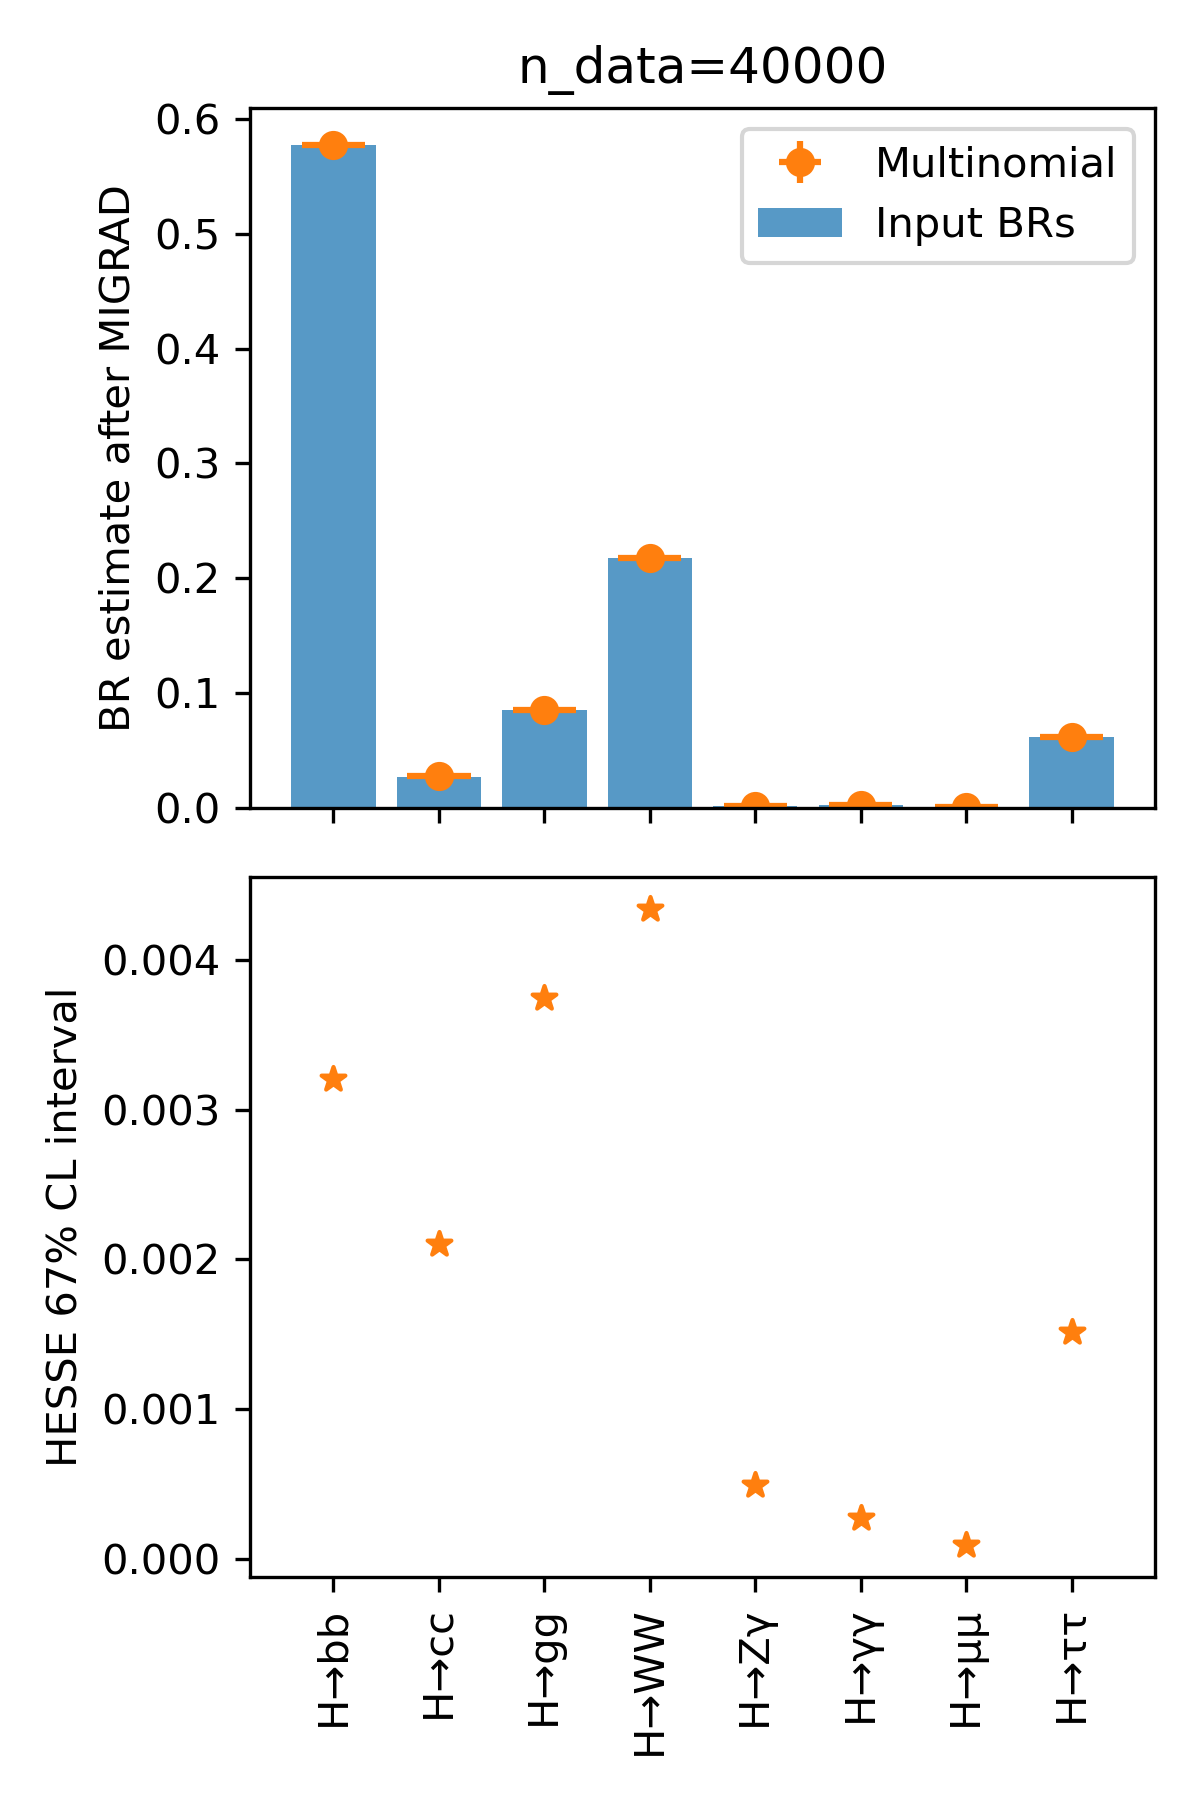
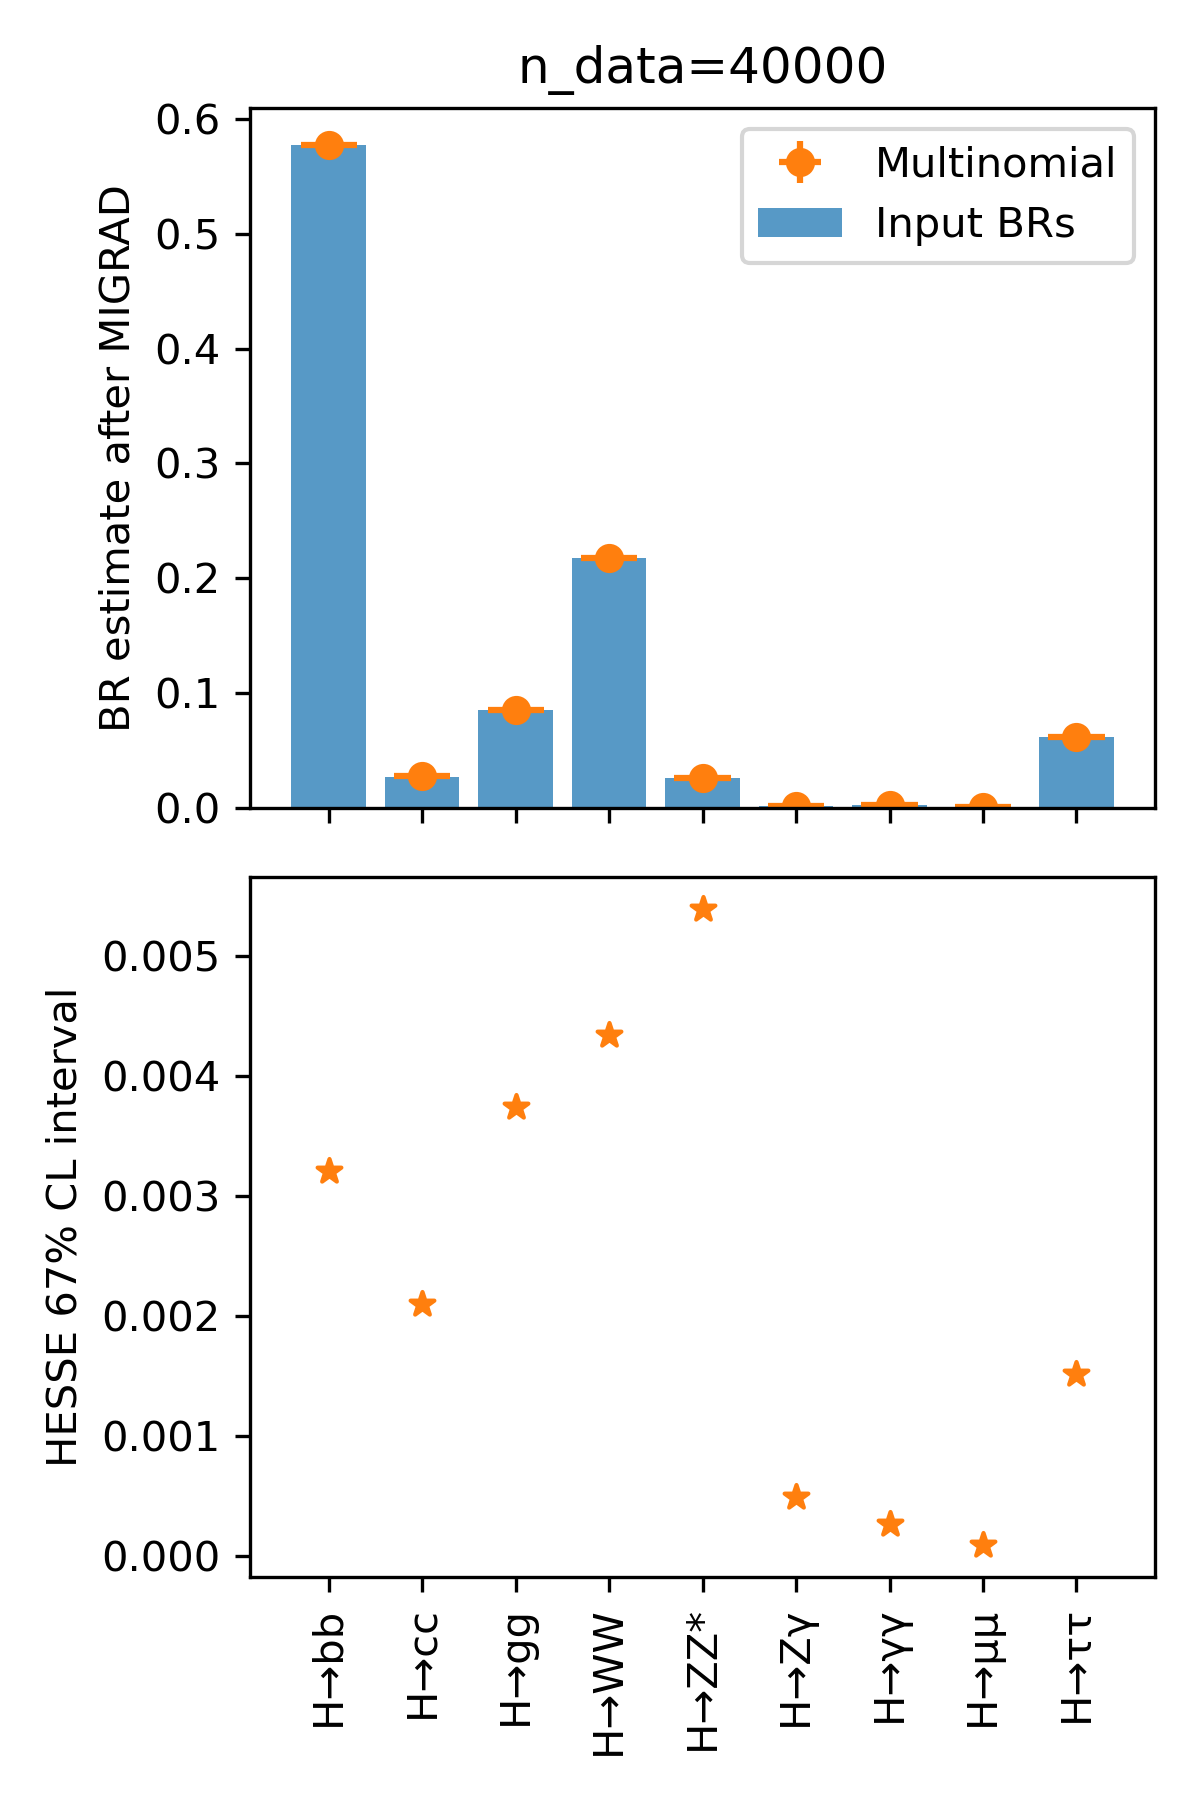
ZZ* (dependent param) now shown with the fit params.
While this is not the obvious way
to present it from the standpoint of the fit,
it is the natural viewpoint from outsides.

diff --git a/plot_factory/toys.py b/plot_factory/toys.py
@@ -54,7 +54,7 @@ def uncertainty_toy_study(data, minimization_procedure, toy_dir,
     #     br_err = br_err / br.sum()
     #     toy_minima = (toy_minima.T / toy_minima.sum(axis=1)).T
 
-    for i, br_name in enumerate(param_names):
+    def toy_hist(br_name, toy_min_i, br_i, br_err_i):
         fig, ax = plt.subplots(figsize=(4, 4))
         ax.set_title(br_name)
         # ax.axvline(data.X0[data.x_names.index(br_name)], color="grey",
@@ -62,20 +62,35 @@ def uncertainty_toy_study(data, minimization_procedure, toy_dir,
             linestyle=":", linewidth=2, zorder=3,
             label=f"{fit_starting_values[br_name]:0.5f} SM BR")
         bins = 20
-        _, edges, _ = ax.hist(toy_minima[:,i], bins,
+        _, edges, _ = ax.hist(toy_min_i, bins,
             label="\n".join([f"Minima from {n_toys} fits",
                               "on toy counts",
                               "(MC2, Multinomial draws)",]),
             alpha=.8, color="C1", density=True)
-        ax.axvline(br[i], color="black",
-            label=f"{br[i]:0.5f} EECF Minimum")
+        ax.axvline(br_i, color="black",
+            label=f"{br_i:0.5f} EECF Minimum")
         x = np.linspace(edges[0], edges[-1], 1000)
-        ax.plot(x, gauss(x, br[i], br_err[i]),
-            label=f"{br_err[i]:0.5f} σ from EECF")
+        ax.plot(x, gauss(x, br_i, br_err_i),
+            label=f"{br_err_i:0.5f} σ from EECF")
         plt.legend(title="\n".join([
                 "EECF: Minuit fit on",
                 "expected event counts (MC2)",]))
         fig.savefig(toy_dir / f"{br_name.replace('→', '_')}.png")
+
+    for i, br_name in enumerate(param_names):
+        toy_min_i = toy_minima[:,i]
+        br_i, br_err_i = br[i], br_err[i]
+        toy_hist(br_name, toy_min_i, br_i, br_err_i)
+
+    # Add toy plot for H→ZZ*.
+    has_dependent_br = len(param_names) == len(fit_starting_values) - 1
+    if has_dependent_br:
+        dependent_br = next(p for p in fit_starting_values if p not in param_names)
+        toy_min_i = 1 - toy_minima.sum(axis=1)
+        br_i = 1 - br.sum()
+        cov = np.array(single_min.covariance.tolist())
+        br_err_i = cov.sum()**.5
+        toy_hist(dependent_br, toy_min_i, br_i, br_err_i)
 
 
 def main():

diff --git a/presentation/sections/backup.tex b/presentation/sections/backup.tex
@@ -74,13 +74,30 @@
   \end{frame}
 
 \begin{frame}{BR correlations with the current categories}
-    Needed to include the results in a global fit.
-    Higher correlations motivate improvements in the category definition.
-    \begin{center}
-    \includegraphics[height=0.7\textheight]
-        {plot_factory/default_correlations}
-    \end{center}
-    \end{frame}
+  \label{correlations}
+  Higher correlations motivate improvements in the category definition.
+  Needed to include the results in a global fit.
+  Also needed for the last BR:
+  \begin{columns}[c, onlytextwidth]
+      \begin{column}{0.4\textwidth}
+      \includegraphics[height=0.7\textheight]
+          {plot_factory/default_correlations}
+      \end{column}
+      \begin{column}{0.7\textwidth}
+      {\footnotesize\begin{align*}
+      B_{ZZ^*} = 1 - \sum_{\scriptscriptstyle i \neq ZZ^*} B_i
+      \Rightarrow \sigma^2_{ZZ^*} =
+      \sum_{\scriptscriptstyle i \neq ZZ^*}
+      \sum_{\scriptscriptstyle j \neq ZZ^*}
+      \rho_{ij} \sigma_i \sigma_j
+      \end{align*}}
+      \begin{center}
+      \includegraphics[height=0.65\textheight]
+          {plot_factory/toys_multinomial_cheat_train_test/H_ZZ*}
+      \end{center}
+      \end{column}
+  \end{columns}
+  \end{frame}
 
 \begin{frame}{Bias from MC sample size}
     \label{backup_bias_mc_limited}

diff --git a/plot_factory/fitting_util/prepare.py b/plot_factory/fitting_util/prepare.py
@@ -6,7 +6,8 @@ def prepare_data(m, data):
         m_dict = m
     else:
         m_dict = {"MIGRAD": m}
-    param_names = set().union(*(set(v.parameters) for v in m_dict.values()))
+    # param_names = set().union(*(set(v.parameters) for v in m_dict.values()))
+    param_names = ["H→cc", "H→bb", "H→μμ", "H→ττ", "H→Zγ", "H→gg", "H→γγ", "H→ZZ*", "H→WW"]  # Temporary patch.
     try:
         param_names = sorted(param_names, key=str.lower)
     except:
@@ -28,6 +29,14 @@ def get_val_and_err(mm, param_names, m_name=""):
                 f"Poisson-type likelihoods! {m_name=}, {sum(y)=}")
         y_err = y_err / sum(y)
         y = y / sum(y)
+
+    multinomial_patch_required = len(param_names) - 1 == len(mm.values)
+    if multinomial_patch_required:
+        assert 1 == sum(np.isnan(y)) == sum(np.isnan(y))
+        y[np.isnan(y)] = 1 - np.nansum(y)
+        cov = np.array(mm.covariance.tolist())
+        y_err[np.isnan(y_err)] = cov.sum()**.5
+
     return y, y_err
 
 

diff --git a/plot_factory/fit_plots.py b/plot_factory/fit_plots.py
@@ -68,7 +68,7 @@ def covariance_plot(data):
             plt.text(text_x, text_y,
                 f"{val:4.3f}",
                 ha="center", va="center", color=color)
-    ax.imshow(corr, cmap=plt.get_cmap("bwr"))
+    ax.imshow(corr, cmap=plt.get_cmap("bwr"), vmin=-1, vmax=1)
     ax.set_title("Correlations")
     fig.tight_layout()
     return fig
@@ -80,10 +80,13 @@ def make_bias_table(min_result, fit_starting_values, table_name="bias_table"):
             ).replace("→μμ", "\to \mu\mu"
             ).replace("→ττ", "\to \tau\tau"
             ).replace("→Zγ", "\to Z\gamma"
+            ).replace("→ZZ*", "\to ZZ^*"
             ).replace("→γγ", "\to \gamma\gamma"
             ).replace("→", "\to "
             )+"$"
     param_names = min_result.parameters
+    if "H→ZZ*" not in param_names:
+        param_names = [p for p in param_names] + ["H→ZZ*"]
     br, br_err = get_val_and_err(min_result, param_names, "bias_table")
 
     pd.DataFrame({

diff --git a/presentation/sections/outline.tex b/presentation/sections/outline.tex
@@ -7,12 +7,13 @@
     \begin{columns}[c,onlytextwidth]
       \begin{column}{0.4\textwidth}
         \textbf{\color{llblue}Previously:}\\
-        Following up on JCB's talk at \href{https://agenda.linearcollider.org/event/8217/timetable/\#190-a-method-to-improve-the-pr}{\color{llblue} LCWS2019}.
+        Following up on JC Brient's talk at
+        \href{https://agenda.linearcollider.org/event/8217/timetable/\#190-a-method-to-improve-the-pr}{\color{llblue} LCWS2019}.
 
         \bigbreak
         \textbf{\color{llblue}Currently:}\\
         Still a work in progress.
-        
+
       \end{column}
       \begin{column}{0.5\textwidth}
         \tableofcontents

diff --git a/presentation/sections/introduction.tex b/presentation/sections/introduction.tex
@@ -8,7 +8,8 @@
   \begin{column}{0.55\textwidth}
   \vfill
   \begin{enumerate}
-    \item Build a (Higgsstrahlung) sample with all Higgs decay modes present.
+    \item Build a sample with all Higgs decay modes
+          (Higgsstrahlung, $Z\to (e^+e^-, \mu^+\mu^-, \nu\bar{\nu})$).
     \item<2-> Construct categories to separate the decay modes (\& background) as well as possible.
     \item<4-> Fit the Higgs branching ratios to the observed category counts.
   \end{enumerate}

diff --git a/presentation/sections/optimization.tex b/presentation/sections/optimization.tex
@@ -39,6 +39,8 @@
   \begin{columns}[c, onlytextwidth]
   \begin{column}{0.6\textwidth}
   The fitted BR$^{\tn{min}}$ reproduces BR$^{\tn{true}}$ within its uncertainties.
+  $\sigma_{B_{H \to ZZ^*}}$ through uncertainty propagation.
+  See {\color{llblue}\ref{correlations}} in backup.
 
   \includegraphics[width=0.8\textwidth, keepaspectratio]
       {plot_factory/br_relative_error}

diff --git a/presentation.tex b/presentation.tex
@@ -14,11 +14,11 @@
 \newcommand*\InputTex[1]{\input{img/#1}}
 
 
-\title[ILD Analysis/Software Meeting]
+\title[LCWS 2021]
   {A combined fit to the Higgs Branching Ratios at ILD}
       [combined Higgs BR fit]
 \author[Jonas Kunath]{Vincent Boudry, Jean-Claude Brient, Fabricio Jimenez, \emph{Jonas Kunath} (LLR)}
-\date{\today}
+\date{16 mars 2021}
 
 \begin{document}
   \maketitle

diff --git a/img/plot_factory/bias_table.tex b/img/plot_factory/bias_table.tex
@@ -10,5 +10,6 @@ $H\to Z\gamma$      &  0.170 &    0.176 &     0.050 \\
 $H\to gg$           &  8.550 &    8.499 &     0.374 \\
 $H\to \gamma\gamma$ &  0.242 &    0.243 &     0.027 \\
 $H\to WW$           & 21.756 &   21.761 &     0.434 \\
+$H\to ZZ^*$         &  2.616 &    2.608 &     0.539 \\
 \bottomrule
 \end{tabular}

diff --git a/img/plot_factory/bias_table_original_stats.tex b/img/plot_factory/bias_table_original_stats.tex
@@ -10,5 +10,6 @@ $H\to Z\gamma$      &  0.170 &    0.160 &     0.052 \\
 $H\to gg$           &  8.550 &    8.411 &     0.378 \\
 $H\to \gamma\gamma$ &  0.242 &    0.240 &     0.027 \\
 $H\to WW$           & 21.756 &   21.683 &     0.433 \\
+$H\to ZZ^*$         &  2.616 &    2.797 &     0.542 \\
 \bottomrule
 \end{tabular}
